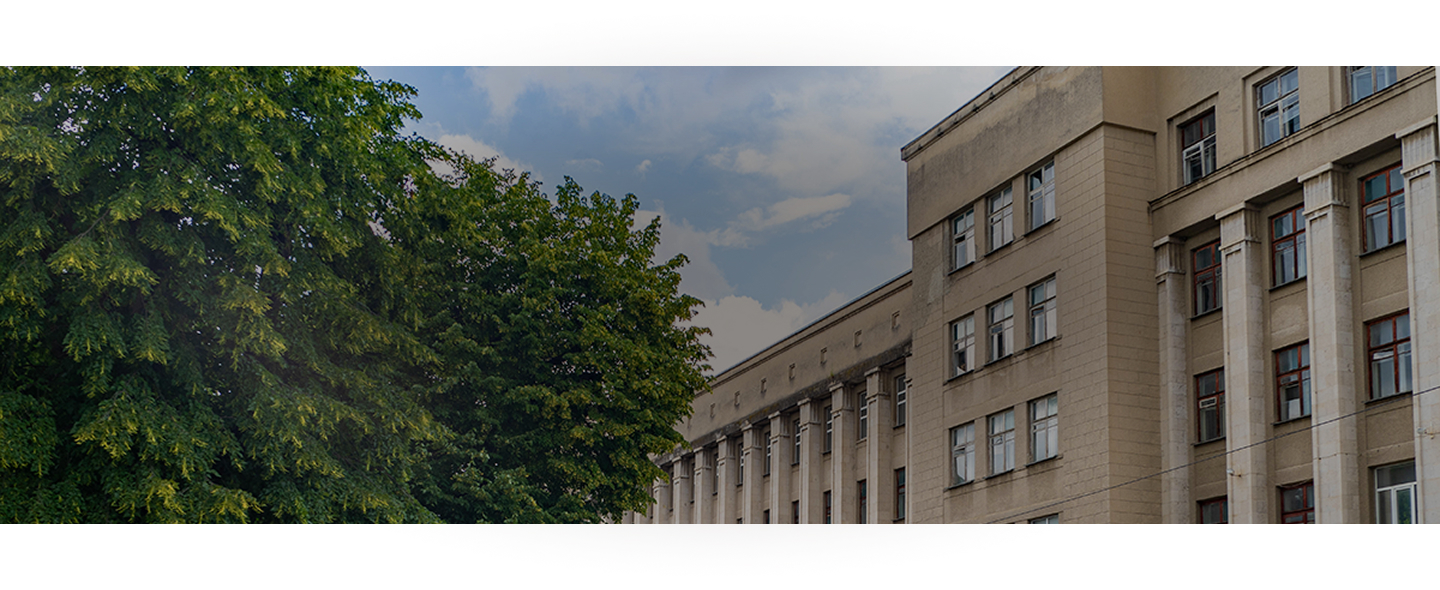
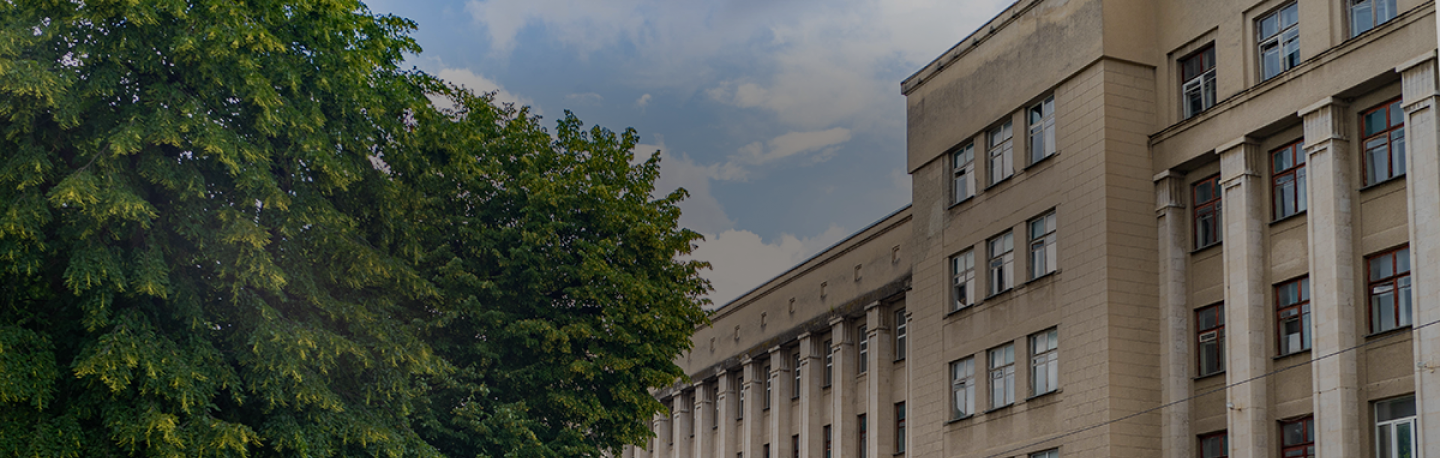
Добавлен второй блок со слайдером категорий

diff --git a/src/components/CategorySlider.jsx b/src/components/CategorySlider.jsx
@@ -1,0 +1,68 @@
+import Container from "./ui/Container";
+import { useRef } from "react";
+import { ChevronLeft, ChevronRight } from "lucide-react";
+
+export function CategorySlider({ categories }) {
+  const scrollRef = useRef(null);
+
+  const scroll = (direction) => {
+    if(scrollRef.current){
+      const {scrollLeft, clientWidth} = scrollRef.current
+      const scrollTo = direction == 'left'
+      ? scrollLeft - clientWidth / 2
+      : scrollLeft + clientWidth / 2;
+
+      scrollRef.current.scrollTo({left: scrollTo, behavior: 'smooth'});
+    }
+  }
+
+  return (
+    <Container>
+      <h2 className="title-underline text-black mb-10">
+        Выбери встречу по интересам
+      </h2>
+
+      <div className="relative group w-full">
+        {/* Cписок категорий */}
+        <div
+          ref={scrollRef}
+          className="flex gap-5 overflow-x-auto scrollbar-hide snap-x snap-mandatory pb-4"
+        >
+          {categories.map((cat, index) => (
+            <div
+              key={index}
+              className="min-w-70 md:min-w-87.5 aspect-4/3 snap-center rounded-3xl overflow-hidden relative"
+            >
+              <img
+                src={cat.image}
+                className="w-full h-full object-cover"
+                alt={cat.title}
+              />
+              <div className="absolute inset-0 bg-linear-to-t from-black/80 to-transparent flex flex-col justify-end p-6 text-white">
+                <h3 className="text-xl font-bold">{cat.title}</h3>
+                <p className="text-sm opacity-80">
+                  {cat.count} встреч • {cat.today} сегодня
+                </p>
+              </div>
+            </div>
+          ))}
+        </div>
+
+        <div className="flex justify-center gap-4 mt-6">
+          <button
+            onClick={() => scroll("left")}
+            className="p-2 border rounded-full hover:bg-gray-100 transition"
+          >
+            <ChevronLeft />
+          </button>
+          <button
+            onClick={() => scroll("right")}
+            className="p-2 border rounded-full hover:bg-gray-100 transition"
+          >
+            <ChevronRight />
+          </button>
+        </div>
+      </div>
+    </Container>
+  );
+}

diff --git a/src/App.jsx b/src/App.jsx
@@ -1,6 +1,46 @@
 import Container from "./components/ui/Container";
 import { Header } from "./components/Header";
 import { Hero } from "./components/Hero";
+import { CategorySlider } from "./components/CategorySlider";
+
+const CATEGORIES_DATA = [
+  {
+    title: "Активный отдых",
+    count: 24,
+    today: 7,
+    image: "/images/active-category.png",
+  },
+  {
+    title: "Настольные игры",
+    count: 12,
+    today: 3,
+    image: "/images/active-category.png",
+  },
+  {
+    title: "Творчество",
+    count: 8,
+    today: 2,
+    image: "/images/active-category.png",
+  },
+  {
+    title: "Пикники",
+    count: 15,
+    today: 5,
+    image: "/images/active-category.png",
+  },
+  {
+    title: "Пикники",
+    count: 15,
+    today: 5,
+    image: "/images/active-category.png",
+  },
+  {
+    title: "Пикники",
+    count: 15,
+    today: 5,
+    image: "/images/active-category.png",
+  },
+];
 
 function App() {
   return (
@@ -8,6 +48,7 @@ function App() {
       <Header />
       <main>
         <Hero />
+        <CategorySlider categories={CATEGORIES_DATA} />
       </main>
     </div>
   );

diff --git a/src/components/Hero.jsx b/src/components/Hero.jsx
@@ -5,8 +5,8 @@ import Container from "./ui/Container";
 
 export function Hero() {
   return (
-    <section className="relative w-full min-h-150 bg-[url('/images/hero-bg.jpg')] bg-cover bg-center flex items-center justify-center">
-      <Container>
+    <section className="relative w-full h-fit mb-20">
+      <Container className="absolute top-1/2 left-1/2 -translate-x-1/2 -translate-y-1/2 flex justify-center items-center text-center">
         <div className="flex flex-col justify-center items-center text-center gap-7.5">
           <h1 className="max-w-225 text-white">
             Найди компанию для любимых занятий во Владикавказе
@@ -21,6 +21,11 @@ export function Hero() {
           </div>
         </div>
       </Container>
+      <img
+        src="/images/hero-bg.jpg"
+        alt=""
+        className="bg-cover bg-center w-full"
+      />
     </section>
   );
 }

diff --git a/src/index.css b/src/index.css
@@ -20,6 +20,17 @@
     letter-spacing: -1.5%;
     font-weight: 600;
   }
+  .title-underline {
+    @apply relative inline-block pb-2.5;
+  }
+
+  .title-underline::after {
+    content: "";
+    @apply absolute bottom-0 left-0 w-full h-1 bg-[#EC562A];
+    border-radius: 50% / 100%; 
+    clip-path: ellipse(50% 50% at 50% 50%);
+  }
+
   h3{
     font-size: 24px;
     line-height: 100%;

diff --git a/src/components/ui/Container.jsx b/src/components/ui/Container.jsx
@@ -1,6 +1,6 @@
-export default function Container({ children }) {
+export default function Container({ children, className}) {
     return (
-        <div className="mx-auto px-15 w-full">
+        <div className={`mx-auto px-15 w-full ${className}`}>
             {children}
         </div>
     );
